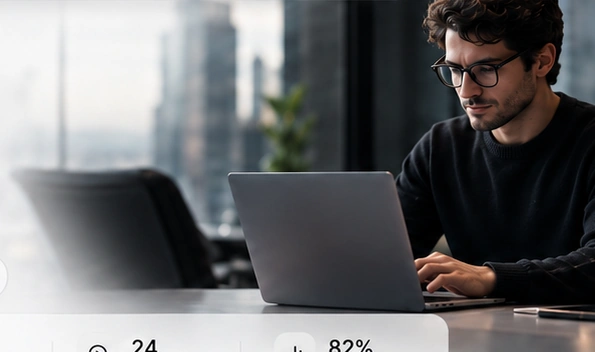
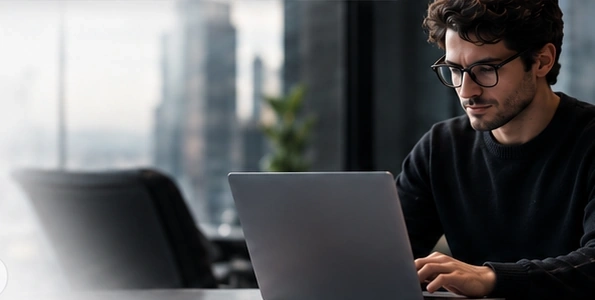
Add files via upload

diff --git a/src/app/globals.css b/src/app/globals.css
@@ -2119,3 +2119,135 @@ html[data-theme="dark"] .octa-hybrid-heading h1{color:#f5f4f1}
   }
   .octa-page.is-live-home .octa-topbar{width:min(650px,60vw)!important}
 }
+
+/* OCTA HOME — SINGLE AUTHORITATIVE LAYOUT 1665x945 */
+body:has(.octa-page.is-live-home){overflow-x:hidden!important;background:#efefec!important}
+body:has(.octa-page.is-live-home) .octa-ai{display:none!important}
+.octa-page.is-live-home{
+  display:grid!important;
+  grid-template-columns:9.2% 90.8%!important;
+  width:100vw!important;
+  max-width:none!important;
+  min-height:100dvh!important;
+  margin:0!important;
+  padding:0!important;
+  gap:0!important;
+  overflow:hidden!important;
+  background:#f6f6f3!important;
+}
+.octa-page.is-live-home>.octa-main{
+  position:relative!important;
+  width:100%!important;
+  min-width:0!important;
+  min-height:100dvh!important;
+  margin:0!important;
+  padding:0!important;
+  overflow:hidden!important;
+  border:0!important;
+  border-radius:0!important;
+  background:#f8f8f6!important;
+  box-shadow:none!important;
+}
+.octa-page.is-live-home>.octa-home-sidebar{
+  position:relative!important;
+  inset:auto!important;
+  display:flex!important;
+  width:100%!important;
+  height:100dvh!important;
+  min-height:100dvh!important;
+  margin:0!important;
+  padding:0!important;
+  flex-direction:column!important;
+  overflow:hidden!important;
+  border-radius:0 42px 42px 0!important;
+  background:linear-gradient(180deg,#0c0f10 0%,#0a0d0e 100%)!important;
+  box-shadow:none!important;
+  z-index:80!important;
+}
+.octa-page.is-live-home>.octa-home-sidebar::before{
+  content:""!important;position:absolute!important;inset:auto -30% -10% -30%!important;height:36%!important;
+  background:radial-gradient(circle,rgba(82,119,109,.13),transparent 62%)!important;pointer-events:none!important
+}
+.octa-home-brand{height:13.3dvh;min-height:108px;display:flex;flex-direction:column;align-items:center;justify-content:center;gap:8px}
+.octa-home-brand .octa-side-symbol{transform:scale(1.14)}
+.octa-home-brand .octa-wordmark{font-size:clamp(14px,1vw,20px)!important;font-weight:720!important;letter-spacing:.04em!important;color:#f7f7f4!important}
+.octa-home-side-search{display:grid;width:72%;aspect-ratio:2.5/1;margin:0 auto 2.2dvh;place-items:center;border:1px solid rgba(255,255,255,.12);border-radius:999px;color:#fff;background:rgba(255,255,255,.02)}
+.octa-home-side-home{display:grid;width:clamp(42px,3.15vw,62px);height:clamp(42px,3.15vw,62px);margin:0 auto 1.8dvh;place-items:center;border-radius:14px;color:#111;background:linear-gradient(145deg,#fff,#eff1ee);box-shadow:0 8px 28px rgba(255,255,255,.28),0 8px 24px rgba(0,0,0,.28)}
+.octa-home-side-links{display:flex;flex-direction:column;gap:.75dvh;padding:0 15%}
+.octa-home-side-link{display:grid;grid-template-columns:24px minmax(0,1fr) auto;align-items:center;min-height:4.45dvh;gap:7px;color:rgba(255,255,255,.82);font-size:clamp(9px,.68vw,13px);white-space:nowrap}
+.octa-home-side-link svg{width:clamp(14px,.92vw,18px);height:clamp(14px,.92vw,18px);stroke-width:1.8}
+.octa-home-side-link b{border-radius:999px;background:#2b3131;padding:3px 7px;font-size:clamp(7px,.48vw,9px);font-weight:500;color:#dfe4e1}
+.octa-home-side-profile{position:absolute;left:16%;right:10%;bottom:7.3dvh;display:grid;grid-template-columns:46px 1fr;grid-template-rows:auto auto;gap:2px 9px;align-items:center;color:#fff}
+.octa-home-profile-photo{position:relative;grid-row:1/3;width:clamp(38px,3.2vw,58px);height:clamp(38px,3.2vw,58px);overflow:visible;border-radius:50%}
+.octa-home-profile-photo img{width:100%;height:100%;border-radius:50%;object-fit:cover}
+.octa-home-profile-photo i{position:absolute;right:-1px;bottom:1px;width:10px;height:10px;border:2px solid #0b0e0f;border-radius:50%;background:#4fd58a}
+.octa-home-side-profile strong{font-size:clamp(9px,.7vw,13px);font-weight:600;overflow:hidden;text-overflow:ellipsis;white-space:nowrap}
+.octa-home-side-profile small{font-size:clamp(7px,.58vw,11px);color:rgba(255,255,255,.58);overflow:hidden;text-overflow:ellipsis;white-space:nowrap}
+.octa-home-side-collapse{position:absolute;left:16%;bottom:2.3dvh;display:grid;width:30px;height:30px;place-items:center;border-radius:50%;background:#15191a;color:#dce0dd;transform:rotate(90deg)}
+.octa-page.is-live-home .octa-topbar{
+  position:absolute!important;z-index:70!important;left:0!important;right:0!important;top:0!important;
+  display:block!important;width:100%!important;height:8.6dvh!important;min-height:0!important;padding:0!important;border:0!important;background:transparent!important;pointer-events:none!important;
+}
+.octa-page.is-live-home .octa-topbar>div{position:relative!important;width:100%!important;height:100%!important;margin:0!important;padding:0!important;display:block!important;pointer-events:none!important}
+.octa-page.is-live-home .octa-topbar .octa-search{
+  position:absolute!important;left:27%!important;top:1.65dvh!important;display:flex!important;width:30.5%!important;max-width:none!important;min-width:0!important;height:4.8dvh!important;min-height:44px!important;
+  align-items:center!important;gap:12px!important;border:1px solid rgba(255,255,255,.58)!important;border-radius:999px!important;padding:0 16px!important;
+  background:linear-gradient(145deg,rgba(255,255,255,.82),rgba(230,232,230,.58))!important;box-shadow:0 10px 30px rgba(0,0,0,.08),inset 0 1px 0 rgba(255,255,255,.9)!important;backdrop-filter:blur(28px) saturate(120%)!important;pointer-events:auto!important;
+}
+.octa-page.is-live-home .octa-topbar .octa-search input{font-size:clamp(10px,.72vw,13px)!important;color:#444845!important}
+.octa-page.is-live-home .octa-topbar .octa-search kbd{margin-left:auto!important}
+.octa-page.is-live-home .octa-topbar .relative:has(button[aria-label="Notificações"]){position:absolute!important;right:14.2%!important;top:1.55dvh!important;pointer-events:auto!important}
+.octa-page.is-live-home .octa-topbar button[aria-label="Notificações"]{width:44px!important;height:44px!important;background:rgba(248,248,246,.82)!important;border:1px solid rgba(255,255,255,.62)!important;box-shadow:0 8px 24px rgba(0,0,0,.07)!important;backdrop-filter:blur(22px)!important}
+.octa-page.is-live-home .octa-top-profile-pill{position:absolute!important;right:2.4%!important;top:1.55dvh!important;display:flex!important;width:11.2%!important;min-width:160px!important;height:44px!important;align-items:center!important;gap:8px!important;border:1px solid rgba(255,255,255,.58)!important;border-radius:999px!important;background:rgba(248,248,246,.82)!important;padding:4px 10px 4px 5px!important;color:#171919!important;box-shadow:0 8px 24px rgba(0,0,0,.07)!important;backdrop-filter:blur(22px)!important;pointer-events:auto!important}
+.octa-page.is-live-home .octa-topbar .fixed{display:none!important}
+.octa-page.is-live-home .octa-app-body{display:block!important;width:100%!important;height:100dvh!important;min-height:100dvh!important;margin:0!important;padding:0!important;overflow:hidden!important}
+.octa-page.is-live-home .octa-live-home{width:100%!important;max-width:none!important;height:100dvh!important;min-height:100dvh!important;margin:0!important;padding:0!important;overflow:hidden!important;background:#f8f8f6!important}
+.octa-page.is-live-home .octa-live-hero{
+  position:relative!important;display:grid!important;grid-template-columns:28.8% 71.2%!important;width:100%!important;height:48.6dvh!important;min-height:0!important;margin:0!important;overflow:hidden!important;border-radius:0!important;background:#fafaf8!important
+}
+.octa-page.is-live-home .octa-live-hero-copy{justify-content:flex-start!important;padding:3.9dvh 1.2vw 1.8dvh 2.45vw!important;background:linear-gradient(90deg,#fafaf8,#fafaf8 78%,rgba(250,250,248,.9) 88%,rgba(250,250,248,0))!important}
+.octa-page.is-live-home .octa-live-greeting{margin:0 0 2.2dvh!important;font-size:clamp(10px,.8vw,15px)!important;color:#232624!important}
+.octa-page.is-live-home .octa-live-hero-copy h1{max-width:94%!important;font-size:clamp(36px,3.05vw,58px)!important;line-height:.98!important;letter-spacing:-.052em!important;font-weight:410!important}
+.octa-page.is-live-home .octa-live-hero-copy>p{max-width:84%!important;margin-top:1.7dvh!important;font-size:clamp(10px,.74vw,14px)!important;line-height:1.55!important;color:#6d716e!important}
+.octa-page.is-live-home .octa-live-hero-actions{gap:.8vw!important;margin-top:2dvh!important}
+.octa-page.is-live-home .octa-live-primary,.octa-page.is-live-home .octa-live-secondary{height:4.2dvh!important;min-height:44px!important;padding:0 1.15vw!important;font-size:clamp(10px,.7vw,13px)!important}
+.octa-page.is-live-home .octa-live-hero-photo{height:48.6dvh!important;min-height:0!important}
+.octa-page.is-live-home .octa-live-hero-image{object-fit:cover!important;object-position:50% 35%!important;transform:none!important;filter:saturate(.9) contrast(1.02) brightness(.99)!important}
+.octa-page.is-live-home .octa-live-hero-fade{background:linear-gradient(90deg,rgba(250,250,248,.6),rgba(250,250,248,.18) 11%,transparent 28%,rgba(0,0,0,.04) 72%,rgba(0,0,0,.17)),linear-gradient(180deg,transparent 0 70%,rgba(0,0,0,.2))!important}
+.octa-page.is-live-home .octa-live-next-card{right:3.2%!important;top:10.1dvh!important;width:23.8%!important;min-width:300px!important;border-radius:20px!important;padding:1.3dvh 1.1vw!important}
+.octa-page.is-live-home .octa-live-next-time{font-size:clamp(28px,2.2vw,42px)!important;margin:1.1dvh 0 .8dvh!important}
+.octa-page.is-live-home .octa-live-next-card h3{font-size:clamp(11px,.85vw,16px)!important;margin-bottom:1.2dvh!important}
+.octa-page.is-live-home .octa-live-quote{right:2.8%!important;bottom:8.8dvh!important;font-size:clamp(9px,.68vw,12px)!important}
+.octa-page.is-live-home .octa-live-metrics{
+  position:relative!important;z-index:12!important;display:grid!important;grid-template-columns:repeat(4,1fr)!important;
+  width:58.6%!important;height:8.2dvh!important;min-height:72px!important;margin:-8.8dvh 0 0 2.5%!important;border-radius:18px!important;
+}
+.octa-page.is-live-home .octa-live-metric{min-height:0!important;height:100%!important;padding:0 1vw!important}
+.octa-page.is-live-home .octa-live-top-grid{
+  display:grid!important;grid-template-columns:47.5% 23.2% 27.3%!important;gap:1%!important;height:17.4dvh!important;padding:1.05dvh 2.4% 0!important;margin-top:0!important
+}
+.octa-page.is-live-home .octa-live-bottom-grid{
+  display:grid!important;grid-template-columns:30.8% 27.3% 40.0%!important;gap:.95%!important;height:33.8dvh!important;padding:1dvh 2.4% 1.5dvh!important
+}
+.octa-page.is-live-home .octa-live-ai,.octa-page.is-live-home .octa-live-card{border-radius:18px!important}
+.octa-page.is-live-home .octa-live-actions{height:100%!important;padding:1.25dvh 1vw!important}
+.octa-page.is-live-home .octa-live-actions-grid{height:calc(100% - 2.7dvh)!important;gap:.65vw!important;margin-top:.9dvh!important}
+.octa-page.is-live-home .octa-live-action{min-height:0!important;height:100%!important;padding:.85dvh .7vw!important}
+.octa-page.is-live-home .octa-live-ai,.octa-page.is-live-home .octa-live-skills{height:100%!important;min-height:0!important;padding:1.3dvh 1vw!important}
+.octa-page.is-live-home .octa-live-skill-ring{width:clamp(76px,6vw,112px)!important;height:clamp(76px,6vw,112px)!important}
+.octa-page.is-live-home .octa-live-recent,.octa-page.is-live-home .octa-live-recordings,.octa-page.is-live-home .octa-live-agenda{height:100%!important;min-height:0!important;padding:1.1dvh .9vw!important;overflow:hidden!important}
+.octa-page.is-live-home .octa-live-meeting-item{min-height:0!important;height:25%!important}
+.octa-page.is-live-home .octa-live-recording-item{min-height:0!important;height:20%!important}
+.octa-page.is-live-home .octa-live-calendar{height:calc(100% - 3.8dvh)!important}
+.octa-page.is-live-home .octa-global-screenshot{display:none!important}
+.octa-page.is-live-home~.octa-global-screenshot{display:none!important}
+@media(max-width:1279px){
+  .octa-page.is-live-home{display:block!important;overflow:visible!important}
+  .octa-page.is-live-home>.octa-home-sidebar{display:none!important}
+  .octa-page.is-live-home>.octa-main{min-height:100dvh!important}
+  .octa-page.is-live-home .octa-app-body,.octa-page.is-live-home .octa-live-home{height:auto!important;min-height:100dvh!important;overflow:visible!important}
+  .octa-page.is-live-home .octa-live-hero{grid-template-columns:1fr!important;height:auto!important}
+  .octa-page.is-live-home .octa-live-hero-photo{min-height:420px!important;height:52dvh!important}
+  .octa-page.is-live-home .octa-live-metrics{width:calc(100% - 40px)!important;margin:-22px 20px 0!important}
+  .octa-page.is-live-home .octa-live-top-grid,.octa-page.is-live-home .octa-live-bottom-grid{height:auto!important;grid-template-columns:1fr!important;padding:14px!important}
+}

diff --git a/src/components/nav.tsx b/src/components/nav.tsx
@@ -35,6 +35,7 @@ export function DashboardSidebar({collapsed=false,onToggle}:{collapsed?:boolean;
   const path=usePathname();const {openTool}=useToolOverlay();const [profile,setProfile]=useState<EditableProfile>(defaultEditableProfile);const [editing,setEditing]=useState(false);
   useEffect(()=>{setProfile(getProfile());const onUpdate=(e:Event)=>setProfile((e as CustomEvent<EditableProfile>).detail??getProfile());window.addEventListener(PROFILE_UPDATED_EVENT,onUpdate);return()=>window.removeEventListener(PROFILE_UPDATED_EVENT,onUpdate)},[]);
   const item=(href:string,label:string,Icon:any)=><Link key={`${href}-${label}`} href={href} data-cms-id={`global.sidebar.${label.toLowerCase().replace(/[^a-z0-9]+/g,'-')}`} data-cms-type="container" title={collapsed?label:undefined} className={`octa-side-item ${path===href?'is-active':''}`}><span className="octa-side-icon"><Icon size={16}/></span><span className="octa-side-label" data-cms-id={`global.sidebar.label.${label.toLowerCase().replace(/[^a-z0-9]+/g,'-')}`} data-cms-type="text">{label}</span></Link>;
+  if(path==='/') return <HomeReferenceSidebar profile={profile}/>;
   const tool=(label:string,Icon:any,kind:'calculator'|'notes')=><button key={kind} onClick={()=>openTool(kind)} title={collapsed?label:undefined} className="octa-side-item w-full text-left"><Icon size={19}/><span className="octa-side-label" data-cms-id={`global.sidebar.tool.${kind}`} data-cms-type="text">{label}</span></button>;
   return <><aside className={`octa-sidebar hidden xl:flex ${collapsed?'is-collapsed':''}`}>
     <div className="octa-side-brand"><div className="octa-side-symbol" aria-hidden="true"><i/><i/><i/></div><OctaLogo/></div>
@@ -46,6 +47,33 @@ export function DashboardSidebar({collapsed=false,onToggle}:{collapsed?:boolean;
     <nav className="octa-side-nav no-scrollbar overflow-y-auto">{sidePrimary.map(({href,label,icon})=>item(href,label,icon))}<div className="octa-side-divider"/>{tool('Calculadora',Calculator,'calculator')}{tool('Anotar',NotebookPen,'notes')}{sideLinks.map(({href,label,icon})=>item(href,label,icon))}</nav>
     <div className="octa-sidebar-footer">{item('/configuracoes','Configurações',Settings)}<button onClick={onToggle} className="octa-expand-orb" aria-label={collapsed?'Expandir menu':'Recolher menu'}><ChevronRight size={19}/></button></div>
   </aside>{editing&&<ProfileEditor profile={profile} onClose={()=>setEditing(false)} onSaved={setProfile}/>}</>;
+}
+
+
+function HomeReferenceSidebar({profile}:{profile:EditableProfile}){
+  const items=[
+    {href:'/reunioes',label:'Reuniões',icon:VideoIcon},
+    {href:'/agenda',label:'Agenda',icon:CalendarDays},
+    {href:'/contatos',label:'Contatos',icon:UsersRound},
+    {href:'/gravacoes',label:'Gravações',icon:CircleUserRound},
+    {href:'/chat',label:'OCTA AI',icon:Sparkles,badge:'Novo'},
+    {href:'/skills',label:'OCTA Skills',icon:BookOpenText},
+    {href:'/configuracoes#notificacoes',label:'Notificações',icon:Bell},
+    {href:'/configuracoes',label:'Configurações',icon:Settings},
+  ];
+  return <aside className="octa-sidebar octa-home-sidebar hidden xl:flex">
+    <div className="octa-home-brand"><div className="octa-side-symbol" aria-hidden="true"><i/><i/><i/></div><OctaLogo/></div>
+    <Link href="/reunioes" className="octa-home-side-search" aria-label="Buscar"><Search size={17}/></Link>
+    <Link href="/" className="octa-home-side-home" aria-label="Início"><Home size={18}/></Link>
+    <nav className="octa-home-side-links">
+      {items.map(({href,label,icon:Icon,badge})=><Link href={href} key={label} className="octa-home-side-link"><Icon size={16}/><span>{label}</span>{badge&&<b>{badge}</b>}</Link>)}
+    </nav>
+    <Link href="/profile" className="octa-home-side-profile">
+      <div className="octa-home-profile-photo"><img src={profile.avatarUrl} alt={profile.displayName}/><i/></div>
+      <strong>{profile.displayName}</strong><small>{profile.headline}</small>
+    </Link>
+    <button className="octa-home-side-collapse" aria-label="Recolher menu"><ChevronRight size={16}/></button>
+  </aside>;
 }
 
 export function TopNav(){

diff --git a/src/app/page.tsx b/src/app/page.tsx
@@ -73,6 +73,7 @@ export default function HomePage(){
           <CardHead title="Reuniões recentes" href="/reunioes"/>
           <MeetingItem title="Briefing Campanha" meta="Hoje · 10:30" action="Entrar"/>
           <MeetingItem title="Alinhamento Comercial" meta="Hoje · 15:00" action="Entrar"/>
+          <MeetingItem title="Reunião com Cliente" meta="Ontem · 16:20" action="Entrar"/>
         </div>
 
         <div className="octa-live-card octa-live-recordings">
@@ -80,6 +81,7 @@ export default function HomePage(){
           <RecordingItem title="Planejamento de Marketing" meta="Hoje · 14:30 · 48 min" time="48:12"/>
           <RecordingItem title="Reunião com João Silva" meta="Ontem · 15:00 · 32 min" time="32:46"/>
           <RecordingItem title="Alinhamento Comercial" meta="Ontem · 10:30 · 26 min" time="26:10"/>
+          <RecordingItem title="Briefing Campanha" meta="18 Mai · 11:00 · 52 min" time="52:33"/>
         </div>
 
         <div className="octa-live-card octa-live-agenda">

diff --git a/src/components/app-shell.tsx b/src/components/app-shell.tsx
@@ -18,6 +18,6 @@ export function AppShell({children}:{children:React.ReactNode}){
     <DashboardSidebar collapsed={collapsed} onToggle={toggle}/>
     <div className="octa-main"><TopNav/><div className="octa-app-body">{children}</div></div>
     <MobileNav/>
-    <GlobalScreenshotButton/>
-  </main><ToolOverlay/></ToolOverlayProvider>;
+    {pathname!=='/'&&<GlobalScreenshotButton/>}
+  </main>{pathname!=='/'&&<ToolOverlay/>}</ToolOverlayProvider>;
 }
